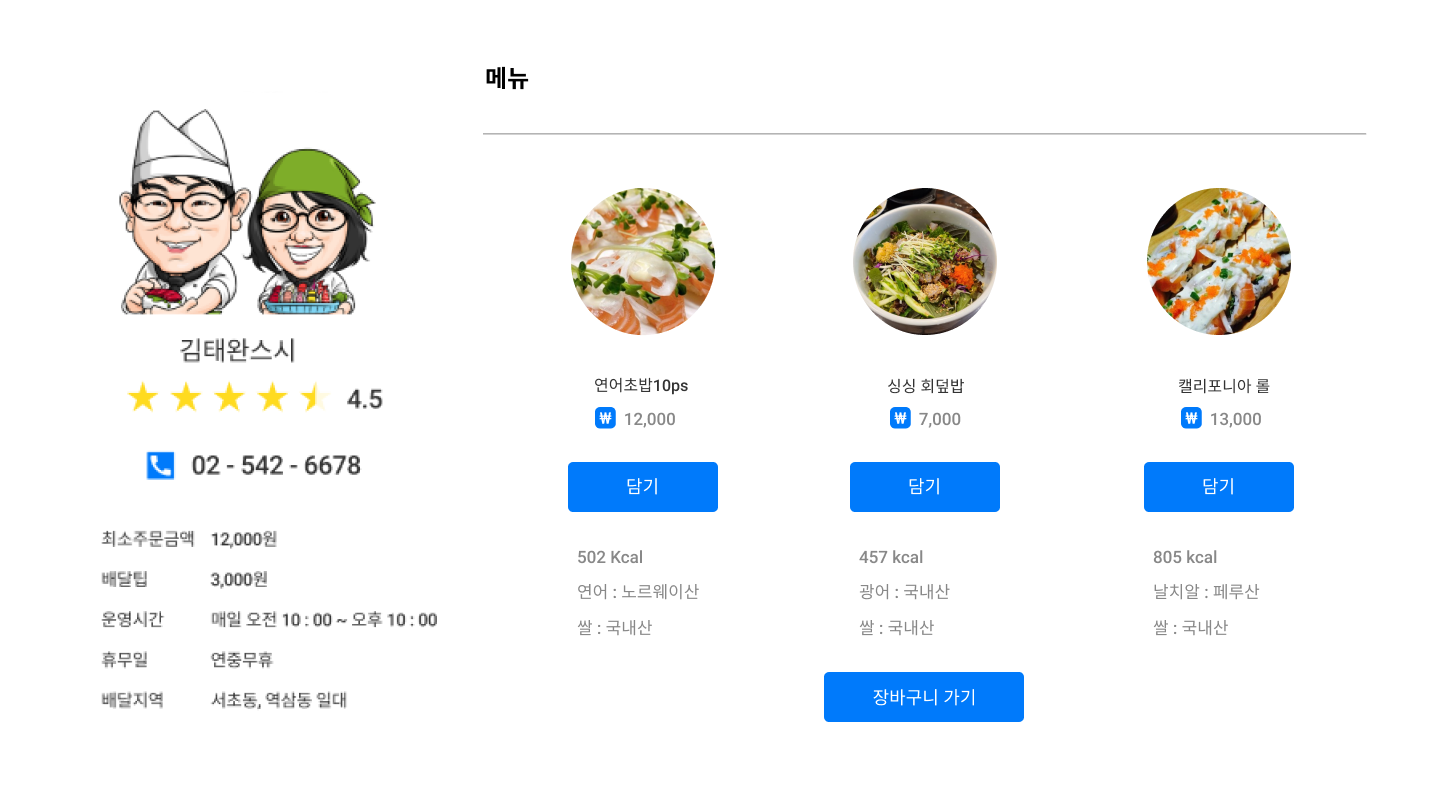
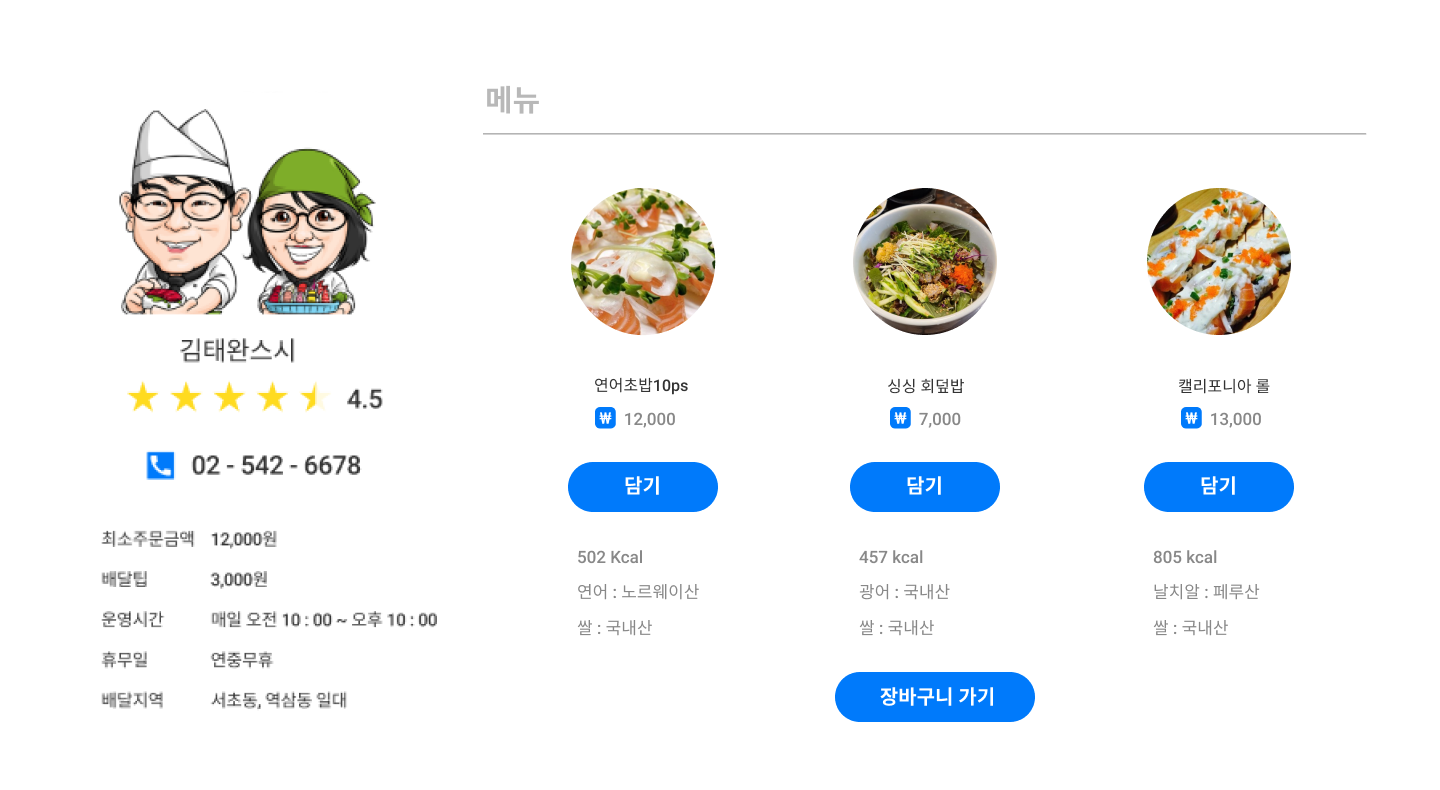
20210202_김태훈
이미지수정

diff --git a/src/team/tjhis/gui/JapaneseFoodPage.java b/src/team/tjhis/gui/JapaneseFoodPage.java
@@ -28,7 +28,7 @@ public class JapaneseFoodPage extends JPanel {
 		
 
 		JLabel logoLabel = new JLabel(new ImageIcon(image));
-		logoLabel.setBounds(82, 54, 1440, 790);
+		logoLabel.setBounds(0, 0, 1440, 790);
 		
 		
 
@@ -55,7 +55,7 @@ public class JapaneseFoodPage extends JPanel {
 
 		JButton cartListButton = new JButton("장바구니로 이동");
 		cartListButton.setSize(190, 50);
-		cartListButton.setLocation(830, 674);
+		cartListButton.setLocation(840, 674);
 		cartListButton.setBackground(new Color(0, 122, 251));
 		cartListButton.setForeground(Color.white);
 		cartListButton.setOpaque(false);
